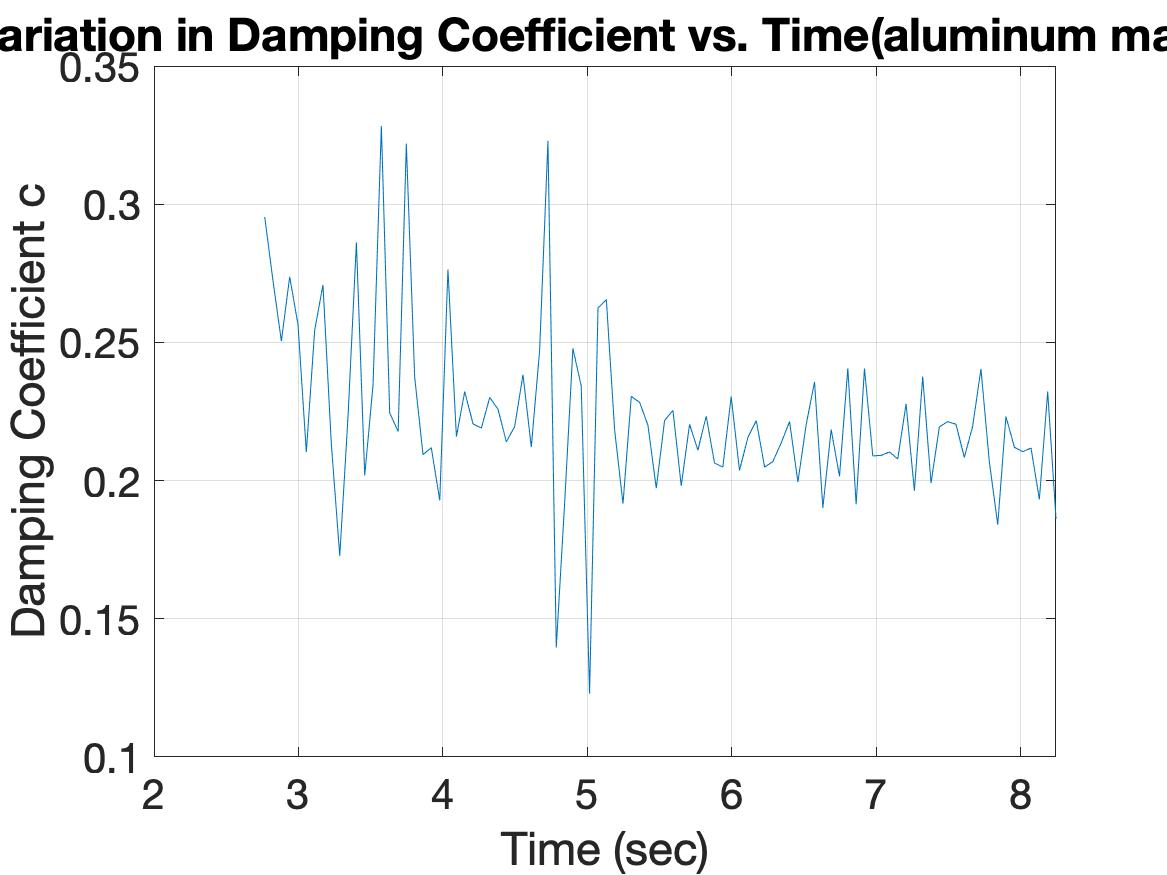
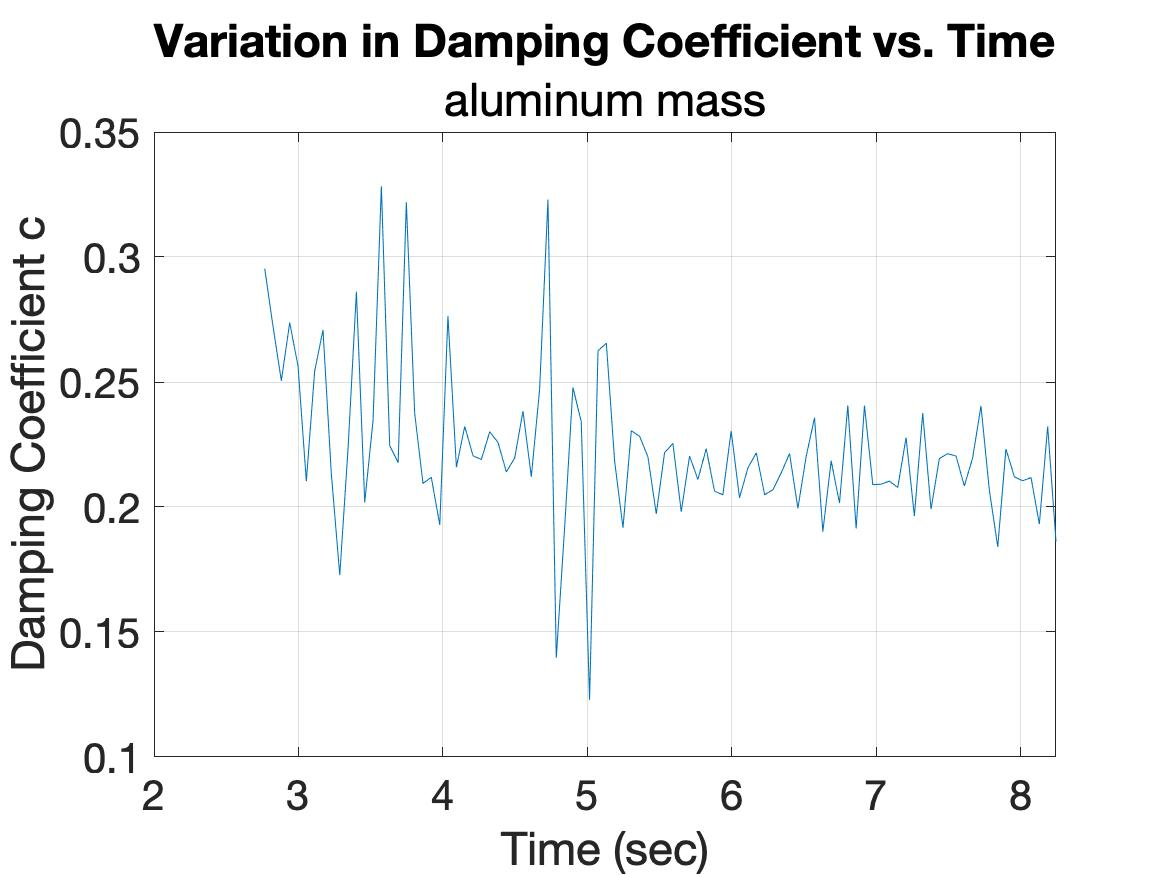
final figures

diff --git a/lab_8/Lab_8.m b/lab_8/Lab_8.m
@@ -32,7 +32,6 @@ for colnum = 1:2
     for rownum = 1:2
         figure()
         plot(DataArray{rownum,colnum}(:,2),DataArray{rownum,colnum}(:,1))
-        title(NameArray(rownum,colnum))
         xlabel("Time (sec)")
         ylabel("Voltage (V)")
         grid on
@@ -201,7 +200,8 @@ for colnum = 1:2
         plot(times(1:s-1),cvals)
         grid on
         reportedcvals{rownum,colnum} = stat_digital(cvals);
-        title(strcat("Variation in Damping Coefficient vs. Time","(",NameArray(rownum,colnum),")"))
+        title("Variation in Damping Coefficient vs. Time")
+        subtitle(NameArray(rownum,colnum))
         xlabel("Time (sec)")
         ylabel("Damping Coefficient c")
         set(gca,'FontSize',20)
